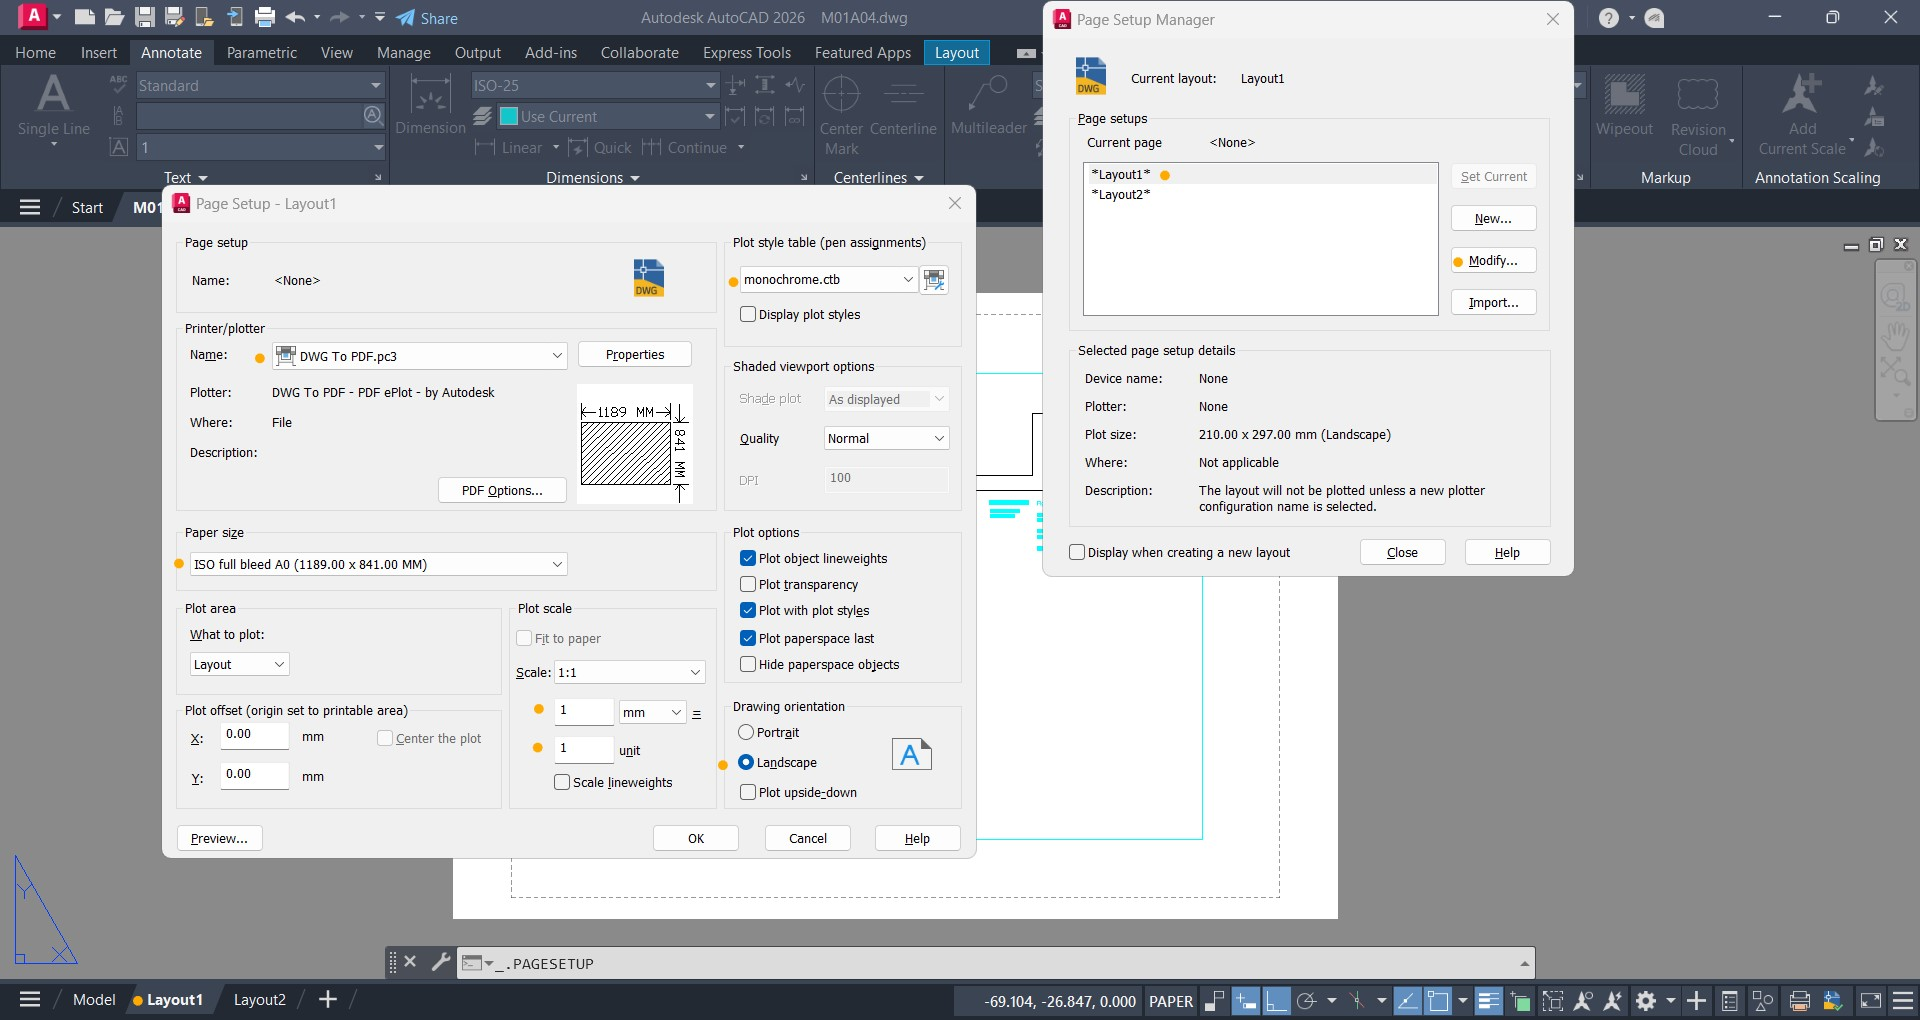
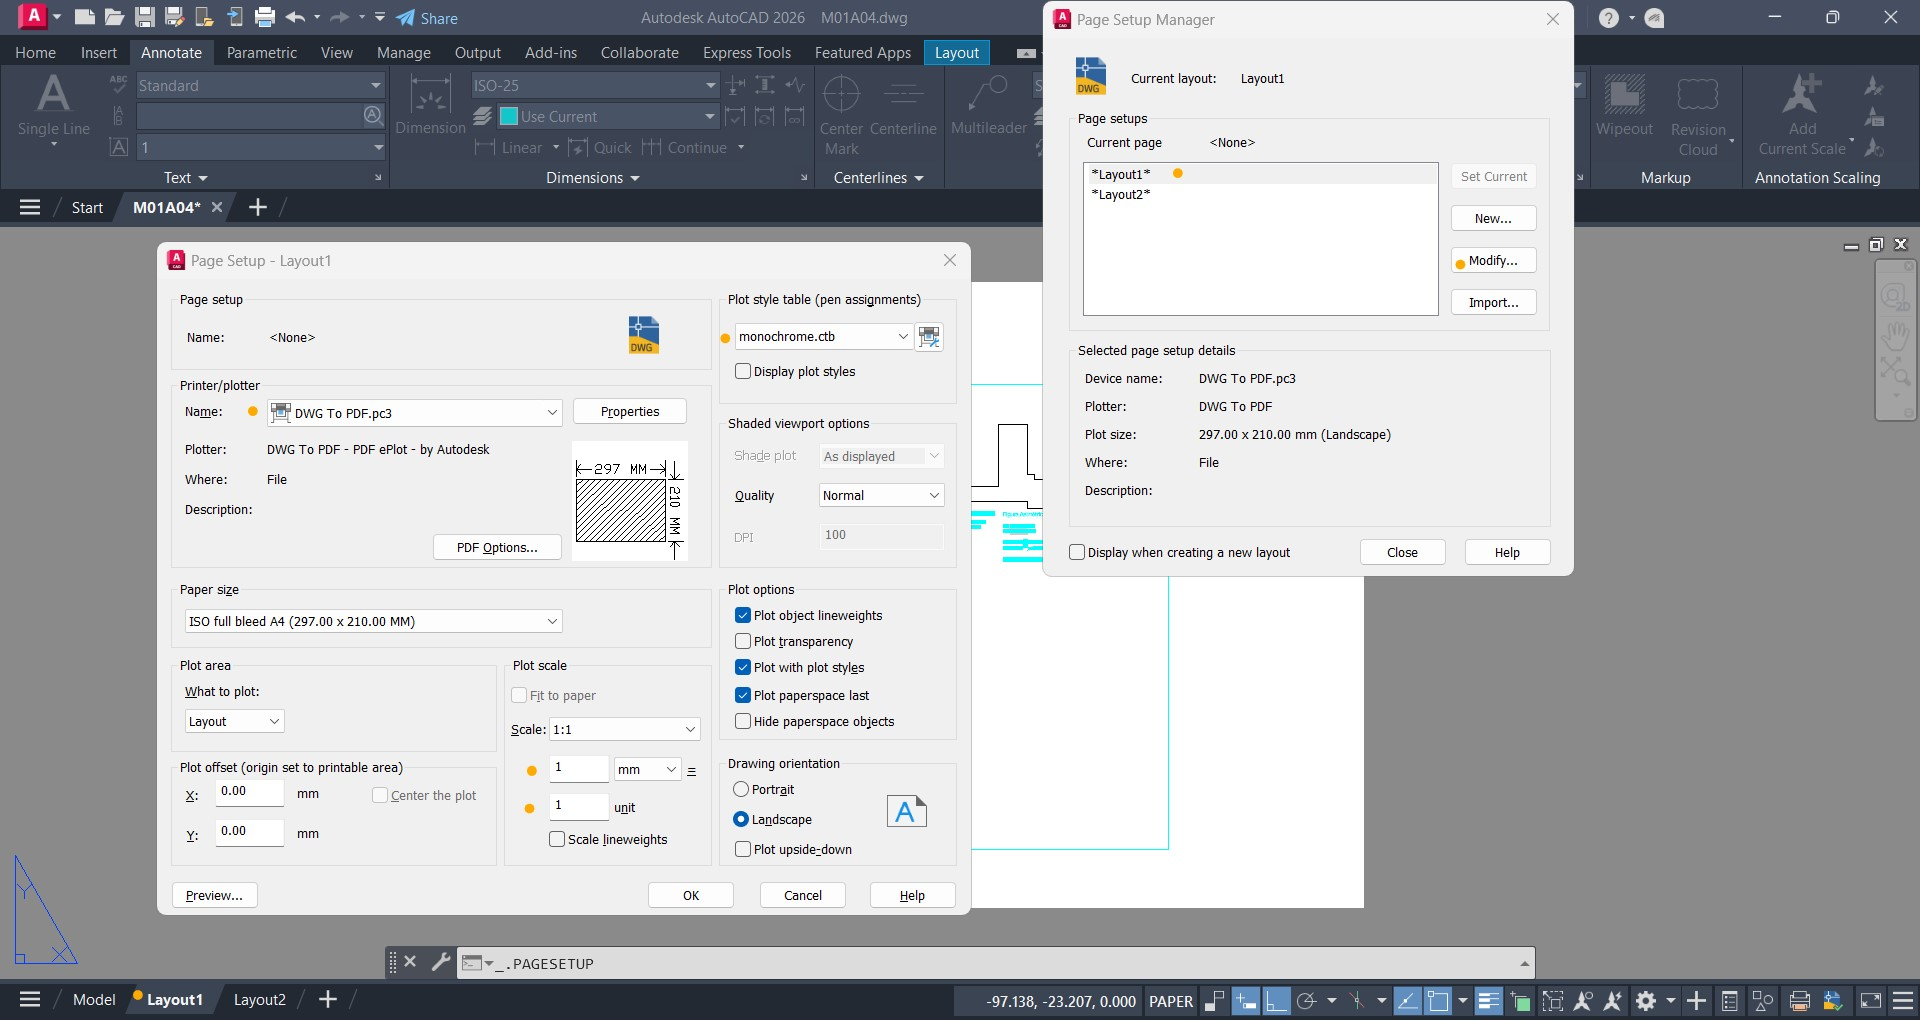
General update.

diff --git a/activity/M01A04/Readme.md b/activity/M01A04/Readme.md
@@ -133,12 +133,13 @@ Dentro del texto podrá incluir proporciones de tamaño, p. ej., el rectángulo 
 
 Verifiquemos ahora el tamaño del texto en la hoja de impresión.
 
-11. En la barra de estado, seleccione la pestaña _Layout1_, desde el menú contextual y _Page Setup Manager_, defina la impresora _DWG To PDF.pc3_, papel _ISO full bleed A0 (1189.00 x 841.00 MM)_, impresión _monocrome.ctb_, escala de impresión 1:1 estableciendo que una unidad de dibujo corresponde a 1 mm. 
+11. En la barra de estado, seleccione la pestaña _Layout1_, desde el menú contextual y _Page Setup Manager_, defina la impresora _DWG To PDF.pc3_, papel _ISO full bleed A4 (297.00 x 210.00 MM)_, impresión _monocrome.ctb_, escala de impresión 1:1 estableciendo que una unidad de dibujo corresponde a 1 mm. 
 
 <div align="center"><img src="graph/AutoCAD_Text9.jpg" alt="R.DAPC" width="100%" border="0" /></div>
 
+12. Elimine el Viewport existente, agregue en la capa cero (0) un rectángulo de 206 de altura por 293 de ancho. Desde el menú _Layout / Layout Viewports / Object_, defina el rectángulo como una ventana al espacio del modelo.
 
-
+<div align="center"><img src="graph/AutoCAD_Text10.jpg" alt="R.DAPC" width="100%" border="0" /></div>
 
 
 
